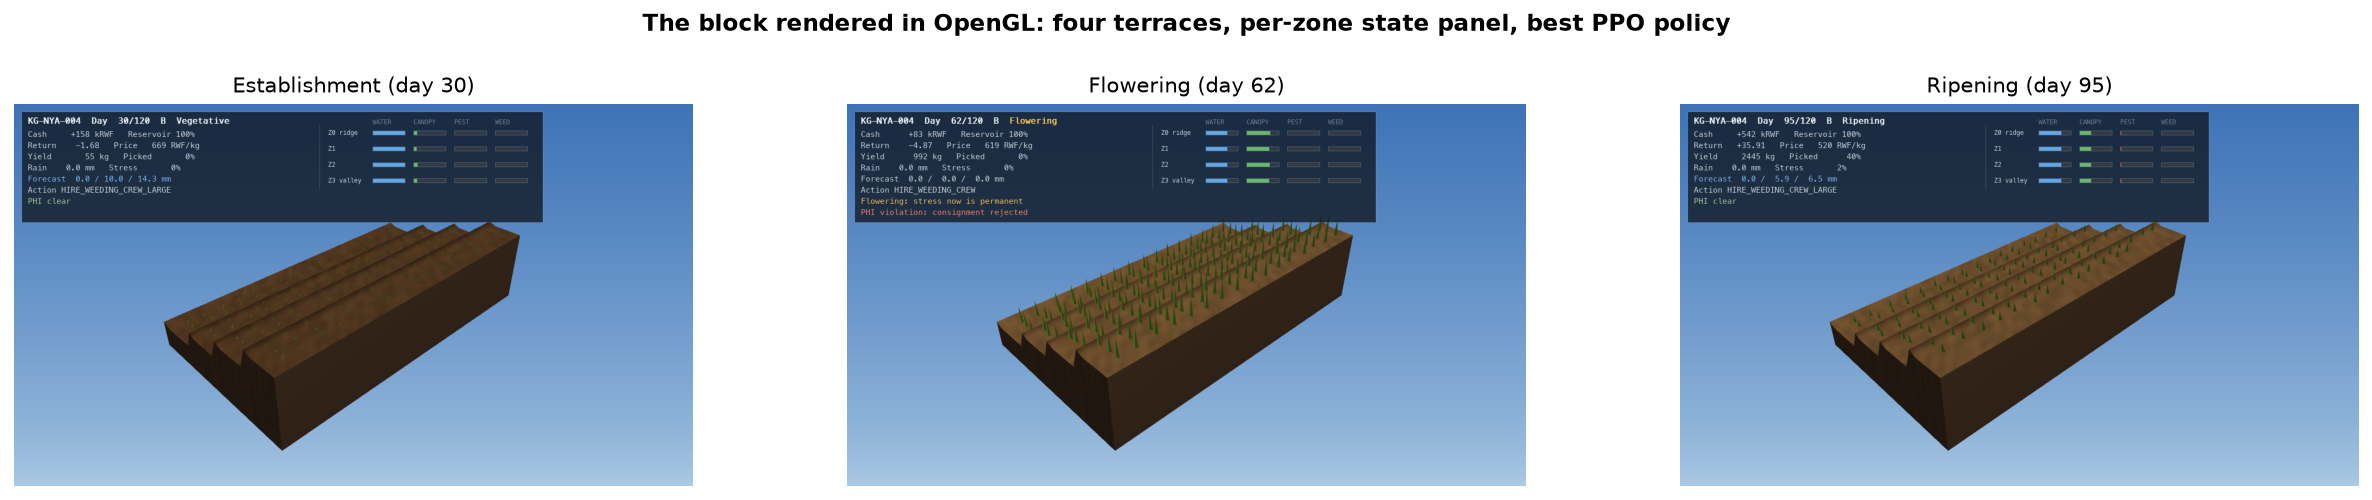
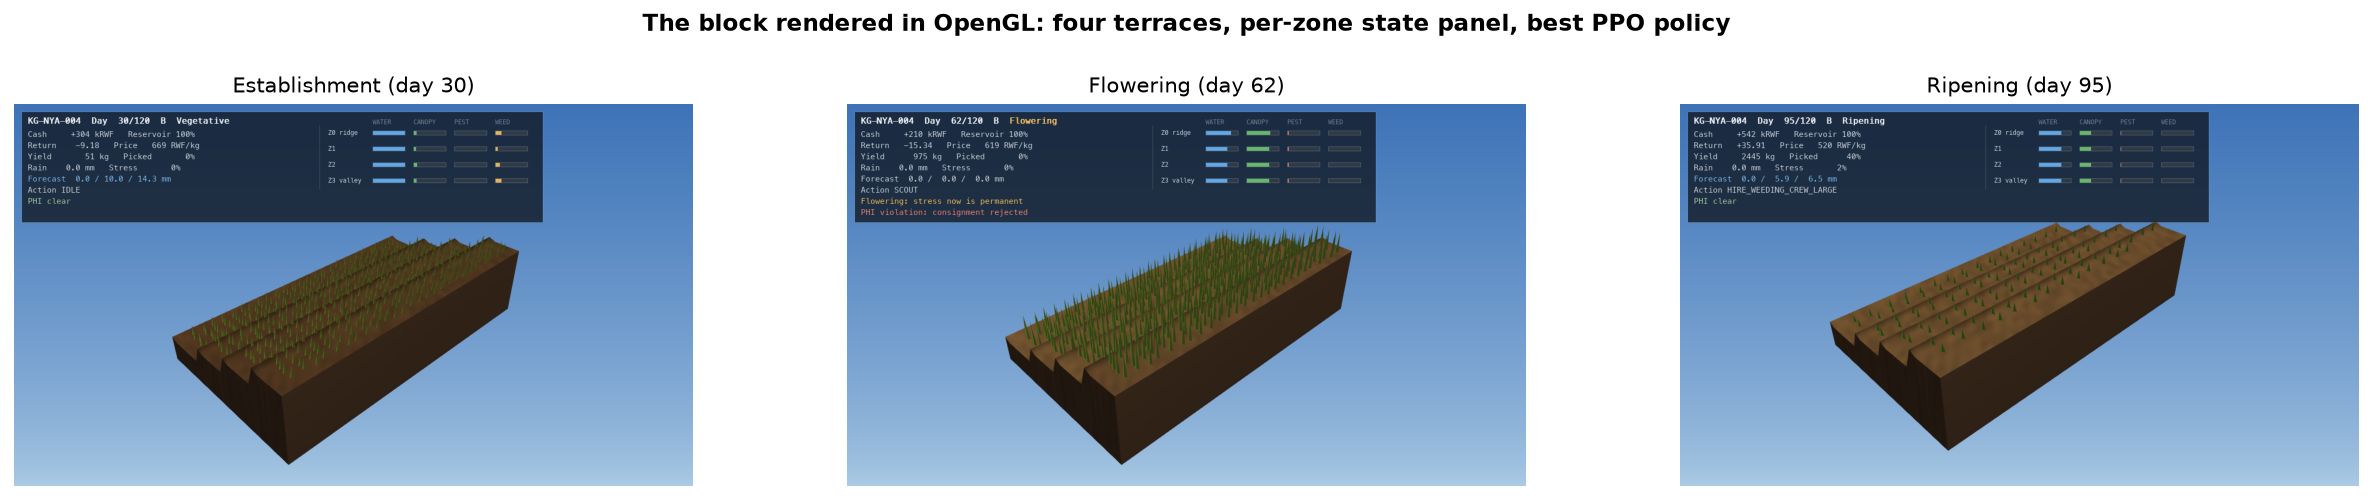
Fix renderer: camera clipping, crop visibility, HUD cache, frame pacing

diff --git a/analysis/plots.py b/analysis/plots.py
@@ -170,32 +170,124 @@ def fig2_dqn_objective(out: Path) -> None:
     print(f"wrote {out / 'fig2_dqn_objective.png'}")
 
 
-def fig3_pg_entropy(out: Path) -> None:
-    """Policy entropy for REINFORCE across entropy coefficient settings.
+def _probe_states(n: int = 256, seed: int = 4242) -> np.ndarray:
+    """A fixed batch of observations to measure policy entropy against.
 
-    SB3 (PPO, A2C) does not log per-step policy entropy through the Monitor
-    wrapper. REINFORCE entropy is read from the hand-written entropy.csv.
+    The same states are used for every run so the entropies are comparable.
+    """
+    import gymnasium as gym
+
+    import environment  # noqa: F401  registers Umurima-v0
+
+    env = gym.make("Umurima-v0")
+    rng = np.random.default_rng(seed)
+    states = []
+    obs, _ = env.reset(seed=seed)
+    while len(states) < n:
+        states.append(np.asarray(obs, dtype=np.float32))
+        obs, _, terminated, truncated, _ = env.step(int(rng.integers(env.action_space.n)))
+        if terminated or truncated:
+            obs, _ = env.reset(seed=int(rng.integers(0, 10_000)))
+    env.close()
+    return np.stack(states)
+
+
+def _final_policy_entropy(algo: str, run_id: str, states: np.ndarray) -> float | None:
+    """Mean entropy of the trained policy over the probe states, in nats."""
+    import torch
+
+    try:
+        if algo == "reinforce":
+            from training.reinforce import ReinforceAgent
+
+            path = Path(f"models/reinforce/{run_id}.pt")
+            if not path.exists():
+                return None
+            agent = ReinforceAgent.load(str(path))
+            with torch.no_grad():
+                dist = agent.policy(torch.as_tensor(states, dtype=torch.float32))
+            return float(dist.entropy().mean().item())
+
+        from stable_baselines3 import A2C, PPO
+
+        cls = {"ppo": PPO, "a2c": A2C}[algo]
+        path = Path(f"models/{algo}/{run_id}.zip")
+        if not path.exists():
+            return None
+        model = cls.load(str(path), device="cpu")
+        with torch.no_grad():
+            tensor, _ = model.policy.obs_to_tensor(states)
+            dist = model.policy.get_distribution(tensor)
+        return float(dist.distribution.entropy().mean().item())
+    except Exception:
+        return None
+
+
+def fig3_pg_entropy(out: Path) -> None:
+    """Policy entropy for all three policy gradient methods.
+
+    Left: REINFORCE entropy over training, read from the hand-written
+    entropy.csv, which is the only per-update log available because the
+    implementation is ours.
+
+    Right: final policy entropy against held-out return for all 30 policy
+    gradient runs. Stable-Baselines3 does not expose per-update entropy through
+    the Monitor wrapper, so PPO and A2C are measured after training by
+    evaluating each saved policy on one fixed batch of observations. That gives
+    a comparable end point for every run even though only REINFORCE has a curve.
     """
     results = pd.read_csv("experiments/results.csv")
-    rf = results[results["algo"] == "reinforce"]
+    fig, (ax1, ax2) = plt.subplots(1, 2, figsize=(15, 5.4))
 
-    fig, ax = plt.subplots(figsize=(10, 5))
+    rf = results[results["algo"] == "reinforce"]
     for _, row in rf.iterrows():
         run_id = str(row["id"])
         entropy_path = LOG_ROOT / run_id / "entropy.csv"
         if not entropy_path.exists():
             continue
         ent = pd.read_csv(entropy_path)
-        ent_coef = row.get("ent_coef", 0)
-        label = f"{run_id} (ent_coef={ent_coef})"
-        ax.plot(ent["timesteps"], ent["entropy"], linewidth=1.0, label=label)
-    ax.axhline(UNIFORM_ENTROPY, color="gray", linestyle="--", linewidth=1.0, label=f"Uniform ln(18)={UNIFORM_ENTROPY:.3f}")
-    ax.set_xlabel("Timestep")
-    ax.set_ylabel("Policy entropy (nats)")
-    ax.set_title("Figure 3: REINFORCE policy entropy")
-    ax.legend(fontsize=7)
+        label = f"{run_id} (ent_coef={row.get('ent_coef', 0)}) -> {row['heldout_mean_return']:.1f}"
+        ax1.plot(ent["timesteps"], ent["entropy"], linewidth=1.0, label=label)
+    ax1.axhline(
+        UNIFORM_ENTROPY, color="gray", linestyle="--", linewidth=1.0,
+        label=f"Uniform ln(18) = {UNIFORM_ENTROPY:.2f}",
+    )
+    ax1.set_xlabel("Timestep")
+    ax1.set_ylabel("Policy entropy (nats)")
+    ax1.set_title("REINFORCE entropy during training")
+    ax1.legend(fontsize=6)
 
-    fig.tight_layout()
+    states = _probe_states()
+    for algo in ("reinforce", "ppo", "a2c"):
+        xs, ys, ids = [], [], []
+        for _, row in results[results["algo"] == algo].iterrows():
+            ent = _final_policy_entropy(algo, str(row["id"]), states)
+            if ent is None:
+                continue
+            xs.append(ent)
+            ys.append(float(row["heldout_mean_return"]))
+            ids.append(str(row["id"]))
+        if not xs:
+            continue
+        ax2.scatter(xs, ys, s=55, alpha=0.85, color=ALGO_COLOURS[algo],
+                    label=ALGO_LABELS[algo], zorder=3)
+        best = int(np.argmax(ys))
+        ax2.annotate(ids[best], (xs[best], ys[best]), fontsize=7,
+                     xytext=(6, 4), textcoords="offset points")
+    ax2.axvline(UNIFORM_ENTROPY, color="gray", linestyle="--", linewidth=1.0)
+    ax2.text(UNIFORM_ENTROPY, ax2.get_ylim()[0], " uniform", fontsize=7,
+             color="gray", va="bottom")
+    ax2.axvline(0.0, color="crimson", linestyle=":", linewidth=1.2)
+    ax2.text(0.0, ax2.get_ylim()[0], " collapsed", fontsize=7,
+             color="crimson", va="bottom")
+    ax2.axhline(BASELINE_SCRIPTED, color="gray", linestyle="-.", linewidth=0.9)
+    ax2.set_xlabel("Final policy entropy (nats, fixed 256-state probe)")
+    ax2.set_ylabel("Held-out mean return")
+    ax2.set_title("Exploration retained vs performance, all 30 PG runs")
+    ax2.legend(fontsize=8)
+
+    fig.suptitle("Figure 3: Policy gradient entropy", fontweight="bold")
+    fig.tight_layout(rect=[0, 0, 1, 0.95])
     fig.savefig(out / "fig3_pg_entropy.png", dpi=DPI)
     plt.close(fig)
     print(f"wrote {out / 'fig3_pg_entropy.png'}")

diff --git a/environment/rendering.py b/environment/rendering.py
@@ -51,11 +51,12 @@ BUND_ROWS = frozenset({ROWS_PER_ZONE - 1, 2 * ROWS_PER_ZONE - 1, 3 * ROWS_PER_ZO
 
 # Crop is planted in rows, which is how the block is actually managed and reads
 # far better than a random scatter.
-CROP_ROWS_PER_ZONE = 3
-CROP_PER_ROW = 16
+CROP_ROWS_PER_ZONE = 5
+CROP_PER_ROW = 26
 CROP_PER_ZONE = CROP_ROWS_PER_ZONE * CROP_PER_ROW
-CROP_RADIUS = 0.045
-CROP_MAX_HEIGHT = 0.55
+CROP_RADIUS = 0.038
+CROP_MAX_HEIGHT = 0.62
+CROP_MIN_HEIGHT = 0.10
 
 RAIN_INSTANCES = 220
 RAIN_TOP = ZONE_HEIGHTS[0] + 2.4
@@ -89,12 +90,14 @@ HUD_BLUE_RGB = (128, 190, 240)
 HUD_DIM_RGB = (120, 134, 148)
 
 # Orbit camera limits
-CAMERA_TARGET = (3.4, 0.30, 2.0)
+CAMERA_TARGET = (3.5, 0.75, 2.0)
 CAMERA_START = (136.2, 33.1, 11.9)  # azimuth, elevation (degrees), distance
-ELEVATION_RANGE = (9.0, 78.0)
-DISTANCE_RANGE = (5.5, 28.0)
+# Below ~20 degrees the near skirt of the block fills the frame and the
+# terraces stop being visible at all, so the floor is set above that.
+ELEVATION_RANGE = (20.0, 76.0)
+DISTANCE_RANGE = (8.0, 24.0)
 ORBIT_SENSITIVITY = 0.32
-ZOOM_SENSITIVITY = 0.08
+ZOOM_SENSITIVITY = 0.06
 
 MESH_VERTEX_SHADER = """#version 410 core
 layout (location = 0) in vec3 in_pos;
@@ -522,6 +525,7 @@ class BlockRenderer:
         self._sky_vao = _build_screen_quad(-1.0, -1.0, 1.0, 1.0)
         self._hud_vao = self._build_hud_quad()
         self._hud_texture = gl.glGenTextures(1)
+        self._hud_key: tuple | None = None
         self._font = None
         self._font_bold = None
 
@@ -570,7 +574,7 @@ class BlockRenderer:
             zone_start = zone * ZONE_DEPTH
             for crop_row in range(CROP_ROWS_PER_ZONE):
                 # Keep clear of the bund on the downslope edge.
-                fraction = 0.26 + 0.21 * crop_row
+                fraction = 0.20 + 0.145 * crop_row
                 z_centre = zone_start + ZONE_DEPTH * fraction
                 for slot in range(CROP_PER_ROW):
                     x = 0.38 + (TOTAL_WIDTH - 0.76) * slot / (CROP_PER_ROW - 1)
@@ -770,7 +774,10 @@ class BlockRenderer:
                 colours[idx] = colour
                 # Harvest clears plants progressively rather than all at once.
                 picked = slot < lifted_per_zone
-                scales[idx] = 0.0 if picked else canopy * CROP_MAX_HEIGHT + 0.03
+                # Square root, not linear: canopy spends most of the season
+                # below 0.5, and a linear map renders that as invisible specks.
+                grown = CROP_MIN_HEIGHT + (CROP_MAX_HEIGHT - CROP_MIN_HEIGHT) * canopy**0.5
+                scales[idx] = 0.0 if picked else grown
 
         gl.glBindBuffer(gl.GL_ARRAY_BUFFER, self._crop_offsets)
         gl.glBufferSubData(gl.GL_ARRAY_BUFFER, 0, offsets.nbytes, offsets)
@@ -832,21 +839,60 @@ class BlockRenderer:
         gl.glEnable(gl.GL_DEPTH_TEST)
 
     def _upload_hud_texture(self, state: dict[str, Any]) -> None:
+        """Re-rasterise the HUD only when the day's state actually changed.
+
+        Rebuilding meant ~20 pygame text rasterisations, 16 bar fills and a full
+        984x210 RGBA reallocation on every frame. At 60 fps against a simulation
+        that only advances a dozen times a second that is almost all wasted, and
+        it is what made orbiting and zooming feel like they lagged.
+        """
         import OpenGL.GL as gl
         import pygame
 
-        surface = self._build_hud(state)
-        data = pygame.image.tobytes(surface, "RGBA", True)
+        key = self._hud_cache_key(state)
         gl.glActiveTexture(gl.GL_TEXTURE0)
         gl.glBindTexture(gl.GL_TEXTURE_2D, self._hud_texture)
-        gl.glTexImage2D(
-            gl.GL_TEXTURE_2D, 0, gl.GL_RGBA, HUD_SIZE[0], HUD_SIZE[1], 0,
-            gl.GL_RGBA, gl.GL_UNSIGNED_BYTE, data,
+        if key == self._hud_key:
+            return
+
+        surface = self._build_hud(state)
+        data = pygame.image.tobytes(surface, "RGBA", True)
+        if self._hud_key is None:
+            gl.glTexImage2D(
+                gl.GL_TEXTURE_2D, 0, gl.GL_RGBA, HUD_SIZE[0], HUD_SIZE[1], 0,
+                gl.GL_RGBA, gl.GL_UNSIGNED_BYTE, data,
+            )
+            gl.glTexParameteri(gl.GL_TEXTURE_2D, gl.GL_TEXTURE_MIN_FILTER, gl.GL_LINEAR)
+            gl.glTexParameteri(gl.GL_TEXTURE_2D, gl.GL_TEXTURE_MAG_FILTER, gl.GL_LINEAR)
+            gl.glTexParameteri(gl.GL_TEXTURE_2D, gl.GL_TEXTURE_WRAP_S, gl.GL_CLAMP_TO_EDGE)
+            gl.glTexParameteri(gl.GL_TEXTURE_2D, gl.GL_TEXTURE_WRAP_T, gl.GL_CLAMP_TO_EDGE)
+        else:
+            # Same dimensions every time, so update in place rather than realloc.
+            gl.glTexSubImage2D(
+                gl.GL_TEXTURE_2D, 0, 0, 0, HUD_SIZE[0], HUD_SIZE[1],
+                gl.GL_RGBA, gl.GL_UNSIGNED_BYTE, data,
+            )
+        self._hud_key = key
+
+    @staticmethod
+    def _hud_cache_key(state: dict[str, Any]) -> tuple:
+        zones = state.get("zones", [])
+        return (
+            state.get("day"), state.get("action"), state.get("cash_krwf"),
+            state.get("return"), state.get("yield_forecast_kg"),
+            state.get("harvested_fraction"), state.get("rain_today_mm"),
+            state.get("within_phi"), state.get("stage"),
+            state.get("reservoir_fraction"), state.get("price_rwf"),
+            tuple(
+                (
+                    round(z.get("depletion_frac", 0.0), 3),
+                    round(z.get("canopy_cover", 0.0), 3),
+                    round(z.get("pest_pressure", 0.0), 3),
+                    round(z.get("weed_pressure", 0.0), 3),
+                )
+                for z in zones
+            ),
         )
-        gl.glTexParameteri(gl.GL_TEXTURE_2D, gl.GL_TEXTURE_MIN_FILTER, gl.GL_LINEAR)
-        gl.glTexParameteri(gl.GL_TEXTURE_2D, gl.GL_TEXTURE_MAG_FILTER, gl.GL_LINEAR)
-        gl.glTexParameteri(gl.GL_TEXTURE_2D, gl.GL_TEXTURE_WRAP_S, gl.GL_CLAMP_TO_EDGE)
-        gl.glTexParameteri(gl.GL_TEXTURE_2D, gl.GL_TEXTURE_WRAP_T, gl.GL_CLAMP_TO_EDGE)
 
     def _build_hud(self, state: dict[str, Any]):
         """Text overlay. Pre-harvest interval line goes red inside the window,

diff --git a/play.py b/play.py
@@ -21,6 +21,9 @@ from training.baselines import RandomPolicy, ScriptedAgronomist
 # Simulated days per second. A season is only ~90 days, so 12 fps runs a whole
 # episode in under 8 seconds. 4 is slow enough to narrate over.
 DEFAULT_RENDER_FPS = 4.0
+# Frames drawn per second. Independent of how fast the season advances, so the
+# orbit camera stays responsive while the simulation is paced for narration.
+DISPLAY_FPS = 60
 
 
 def load_policy(model_path: Path | None, baseline: str | None):
@@ -94,8 +97,16 @@ def run_episodes(
             step_count += 1
 
             if render and not env.unwrapped.render_closed:
-                env.render()
-                clock.tick(fps)
+                # Draw many frames per simulated day rather than one. Pacing the
+                # whole window at `fps` meant the camera also only updated that
+                # often, so at the default 4 days/sec an orbit or zoom redrew
+                # four times a second and felt broken. The season still advances
+                # at `fps` days per second; only the frame rate is decoupled.
+                for _ in range(max(1, int(round(DISPLAY_FPS / max(fps, 0.1))))):
+                    if env.unwrapped.render_closed:
+                        break
+                    env.render()
+                    clock.tick(DISPLAY_FPS)
 
             if verbose:
                 act_name = Action(int(action)).name
